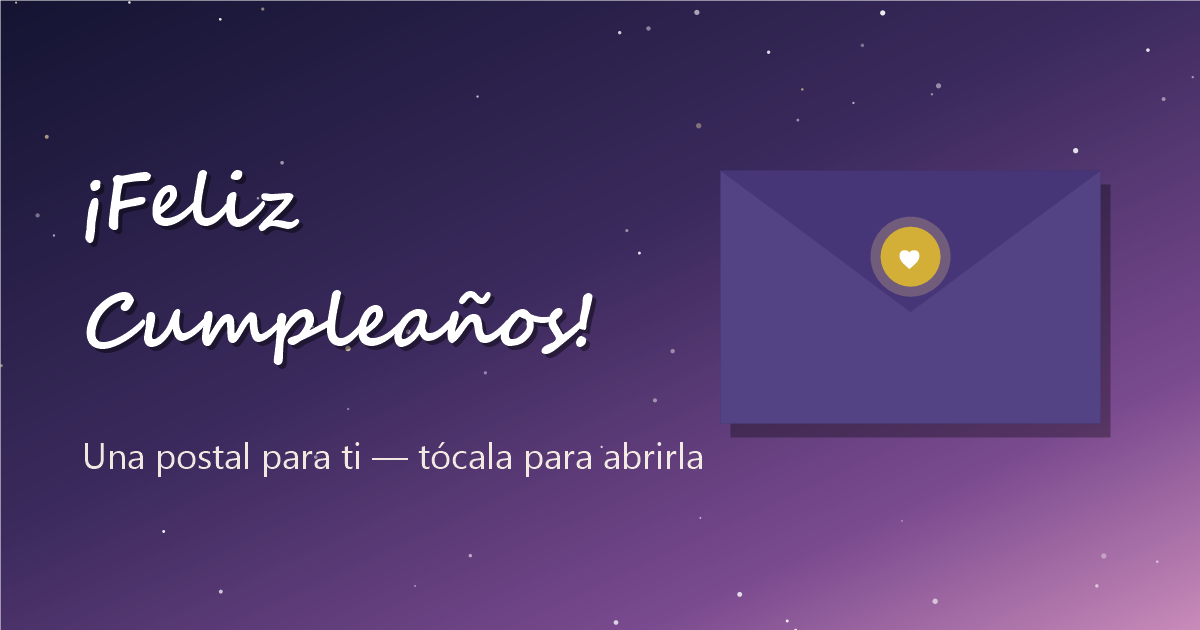
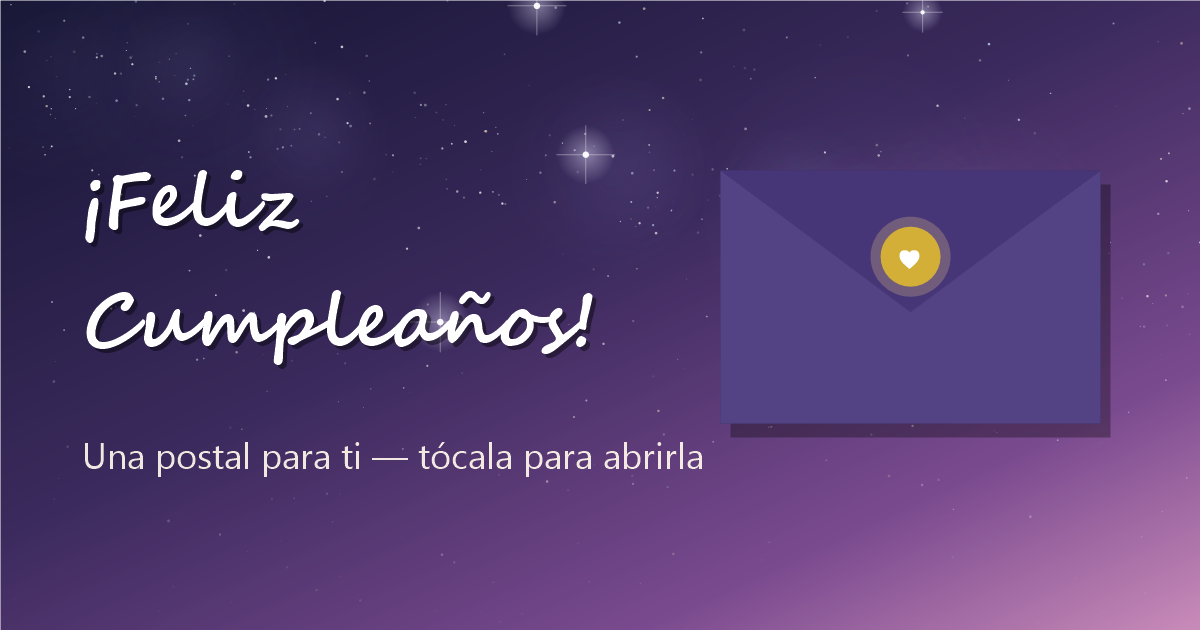
Cielo estrellado realista en canvas HD

diff --git a/index.html b/index.html
@@ -60,7 +60,7 @@
 
   /* ---------- Envelope ---------- */
   .envelope {
-    position: relative;
+    position: relative; z-index: 1;
     width: min(85vw, 340px); aspect-ratio: 3 / 2;
     cursor: pointer;
     filter: drop-shadow(0 12px 24px rgba(0,0,0,.45)) drop-shadow(0 0 26px rgba(255,205,130,.25));
@@ -188,9 +188,15 @@
     position: fixed; inset: 0;
     pointer-events: none; z-index: 60;
   }
+  #stars {
+    position: fixed; inset: 0;
+    pointer-events: none; z-index: 0;
+  }
 </style>
 </head>
 <body>
+
+<canvas id="stars"></canvas>
 
 <div class="envelope" id="envelope">
   <div class="back"></div>
@@ -270,6 +276,94 @@ card.addEventListener('click', e => {
   e.stopPropagation();
   burst(120);
 });
+
+/* ---------- Cielo estrellado ---------- */
+const starsCanvas = document.getElementById('stars');
+const sctx = starsCanvas.getContext('2d');
+
+function drawStars() {
+  const dpr = Math.min(window.devicePixelRatio || 1, 2);
+  const w = innerWidth, h = innerHeight;
+  starsCanvas.width = w * dpr;
+  starsCanvas.height = h * dpr;
+  sctx.setTransform(dpr, 0, 0, dpr, 0, 0);
+
+  // Las estrellas se desvanecen hacia el "amanecer" en la parte baja
+  const fade = y => Math.max(0, Math.min(1, 1 - (y / h - 0.5) * 1.8));
+  const gauss = () => (Math.random() + Math.random() + Math.random() - 1.5) / 1.5;
+  const TINTS = ['255,255,255', '207,224,255', '255,232,200'];
+  const tint = () => TINTS[Math.random() < .7 ? 0 : (Math.random() < .65 ? 1 : 2)];
+
+  function dot(x, y, r, a) {
+    sctx.fillStyle = 'rgba(' + tint() + ',' + a.toFixed(3) + ')';
+    sctx.beginPath();
+    sctx.arc(x, y, r, 0, Math.PI * 2);
+    sctx.fill();
+  }
+
+  // Velo de vía láctea en diagonal
+  for (let i = 0; i < 26; i++) {
+    const t = Math.random();
+    const x = t * w, y = h * (0.10 + 0.38 * t) + gauss() * h * 0.06;
+    const r = 50 + Math.random() * 110;
+    const grad = sctx.createRadialGradient(x, y, 0, x, y, r);
+    grad.addColorStop(0, 'rgba(190,175,255,0.05)');
+    grad.addColorStop(1, 'rgba(190,175,255,0)');
+    sctx.fillStyle = grad;
+    sctx.fillRect(x - r, y - r, r * 2, r * 2);
+  }
+
+  // Polvo de estrellas concentrado en la banda
+  for (let i = 0; i < 260; i++) {
+    const t = Math.random();
+    const x = t * w + gauss() * w * 0.03;
+    const y = h * (0.10 + 0.38 * t) + gauss() * h * 0.07;
+    dot(x, y, 0.3 + Math.random() * 0.5, (0.1 + Math.random() * 0.4) * fade(y));
+  }
+
+  // Campo general de estrellas
+  for (let i = 0; i < 380; i++) {
+    const x = Math.random() * w, y = Math.random() * h;
+    dot(x, y, 0.25 + Math.random() * 0.75, (0.15 + Math.random() * 0.65) * fade(y));
+  }
+
+  // Estrellas medianas con halo suave
+  for (let i = 0; i < 26; i++) {
+    const x = Math.random() * w, y = Math.random() * h * 0.75;
+    const a = (0.5 + Math.random() * 0.5) * fade(y);
+    const r = 0.9 + Math.random() * 0.7;
+    const grad = sctx.createRadialGradient(x, y, 0, x, y, r * 5);
+    grad.addColorStop(0, 'rgba(255,255,255,' + (a * 0.35).toFixed(3) + ')');
+    grad.addColorStop(1, 'rgba(255,255,255,0)');
+    sctx.fillStyle = grad;
+    sctx.fillRect(x - r * 5, y - r * 5, r * 10, r * 10);
+    dot(x, y, r, a);
+  }
+
+  // Pocas estrellas brillantes con destello en cruz
+  for (let i = 0; i < 7; i++) {
+    const x = Math.random() * w, y = Math.random() * h * 0.6;
+    const r = 1.4 + Math.random() * 0.9;
+    const glowR = r * 9;
+    const grad = sctx.createRadialGradient(x, y, 0, x, y, glowR);
+    grad.addColorStop(0, 'rgba(255,255,255,0.5)');
+    grad.addColorStop(0.3, 'rgba(220,215,255,0.12)');
+    grad.addColorStop(1, 'rgba(220,215,255,0)');
+    sctx.fillStyle = grad;
+    sctx.fillRect(x - glowR, y - glowR, glowR * 2, glowR * 2);
+    sctx.fillStyle = 'rgba(255,255,255,0.95)';
+    sctx.beginPath(); sctx.arc(x, y, r, 0, Math.PI * 2); sctx.fill();
+    sctx.strokeStyle = 'rgba(255,255,255,0.35)';
+    sctx.lineWidth = 0.8;
+    const s = glowR * 0.9;
+    sctx.beginPath();
+    sctx.moveTo(x - s, y); sctx.lineTo(x + s, y);
+    sctx.moveTo(x, y - s); sctx.lineTo(x, y + s);
+    sctx.stroke();
+  }
+}
+drawStars();
+addEventListener('resize', drawStars);
 
 /* ---------- Confeti ---------- */
 const canvas = document.getElementById('confetti');